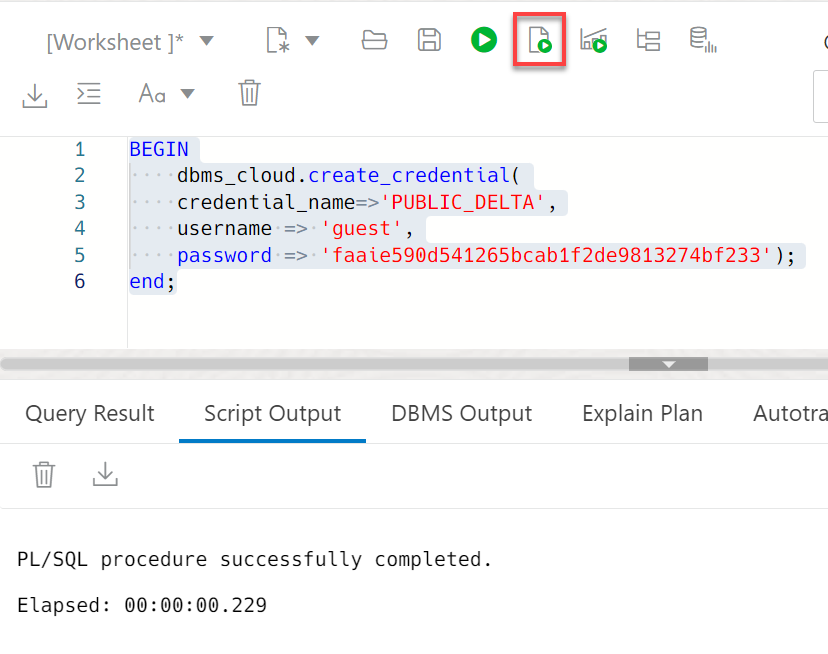
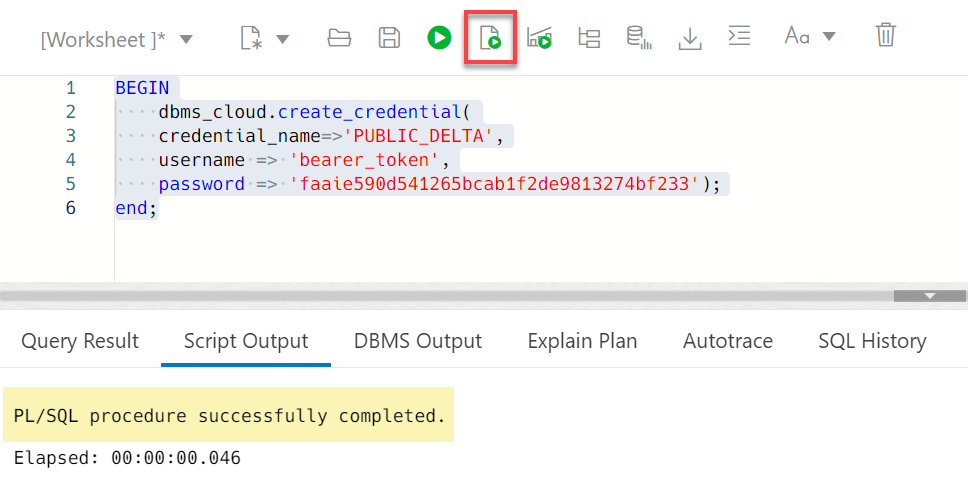
more changes

diff --git a/shared/adw-data-lake/build-data-lake/introduction/introduction.md b/shared/adw-data-lake/build-data-lake/introduction/introduction.md
@@ -2,7 +2,7 @@
 
 ## About this Workshop
 
-The labs in this workshop walk you through all the steps to build a Data Lake using Autonomous Warehouse (ADW), Oracle Object Storage, and optionally Oracle Cloud Infrastructure (OCI) Data Catalog and Amazon Simple Storage Service (S3).
+The labs in this workshop walk you through all the steps to build a Data Lake using Autonomous Data Warehouse (ADW), Oracle Object Storage, and optionally Oracle Cloud Infrastructure (OCI) Data Catalog and Amazon Simple Storage Service (S3).
 
 In the data-driven era, building efficient and scalable data lakes is pivotal for organizations aiming to harness the full potential of their data. Oracle ADW has made significant strides in this field, offering a unified platform rich with capabilities such as graph analysis, machine learning, spatial processing, JSON support, and in-memory data caching.
 
@@ -14,7 +14,7 @@ The focus of this workshop is on the process of building an object store-centric
 
   ![The architecture diagram.](images/architecture-diagram.png)
 
-Estimated Time: 2 hours
+Estimated Time: 2.5 hours
 
 ### What is a Data Lake?
 A data lake enables an enterprise to store all of its data in a cost effective, elastic environment while providing the necessary processing, persistence, and analytic services to discover new business insights. A data lake stores and curates structured and unstructured data and provides methods for organizing large volumes of highly diverse data from multiple sources. In this workshop, a Data Lake refers to the Oracle Object Storage buckets that you will harvest in Data Catalog and query in ADB.
@@ -44,8 +44,6 @@ You can create a table on top of Parquet files, using **Database Actions** in AD
 
  ![The diagram shows the sources for creating tables.](images/table-sources-diagram.png)
 
-
-
 ### Prerequisites
 
 * An Oracle Cloud Account - Please view this workshop's LiveLabs landing page to see which environments are supported. You may use your own cloud account or you can get a Free Trial account as described in the **Get Started** lab in the **Contents** menu.
@@ -60,17 +58,17 @@ You may now proceed to the next lab.
 
 * [Get Started with Data Catalog](https://docs.oracle.com/en-us/iaas/data-catalog/using/index.htm)
 * [Data Catalog Overview](https://docs.oracle.com/en-us/iaas/data-catalog/using/overview.htm)
-* [Using Oracle Autonomous Database on Shared Exadata Infrastructure](https://docs.oracle.com/en/cloud/paas/autonomous-database/adbsa/index.html)
+* [Using Oracle Autonomous Database Serverless](https://docs.oracle.com/en/cloud/paas/autonomous-database/adbsa/index.html)
 * [Oracle Cloud Infrastructure Documentation](https://docs.cloud.oracle.com/en-us/iaas/Content/GSG/Concepts/baremetalintro.htm)
 * [What Is a Data Catalog and Why Do You Need One?](https://www.oracle.com/big-data/what-is-a-data-catalog/)
 * [What is the difference between a Data Lake, Database, and a Data Warehouse](https://www.oracle.com/a/ocom/docs/database/difference-between-data-lake-data-warehouse.pdf) and the [Oracle Cloud Data Lakehouse LiveLabs Workshop](https://apexapps.oracle.com/pls/apex/f?p=133:100:100470405399556::::SEARCH:lakehouse).
 
 ## Acknowledgements
 * **Author:** Lauran Serhal, Consulting User Assistance Developer, Oracle Autonomous Database and Big Data
-* **Contributors:**
+* **Contributor:**
 
     * Alexey Filanovskiy, Senior Product Manager
-    * Marty Gubar, ADB Product Management
+
 * **Last Updated By/Date:** Lauran Serhal, June 2023
 
 Data about movies in this workshop were sourced from Wikipedia.

diff --git a/shared/adw-data-lake/build-data-lake/query-data-lakes/query-data-lakes.md b/shared/adw-data-lake/build-data-lake/query-data-lakes/query-data-lakes.md
@@ -81,7 +81,7 @@ In this task, we define a **Cloud Location** to connect to a public Oracle Objec
 
 ## Task 3: Load Data from the OCI Cloud Location and Create a Table
 
-In this task, we will load data and create the **customer\_contact** and table in your Autonomous Database instance.
+In this task, we will load data and create the **customer\_contact** table in your Autonomous Database instance.
 
 >**Note:** In **Lab 3: Load Data from Local Files**, we already loaded the **customer-extension.csv** file into our ADB instance; therefore, we won't perform this step. In addition, in **Lab 4: Link to Data in Public Object Storage Buckets**, we already linked to the **customer\_contact** file and created the external table; however, in this task, we will load the same **customer\_contact** data into our ADB instance and create a new database table under a new name. Querying data stored inside the database is much faster than querying data that is stored in external tables outside the database.
 
@@ -152,12 +152,13 @@ In this task, we define a **Cloud Location** to connect to our **`moviestream-ch
     + **Cloud Username and Password:** Select this option, if not already selected.
     + **Cloud Store:** Select **Amazon S3** option from the drop-down list.
     + **Credential Name:** Enter **aws_credential**.
-    + The **Bucket URI** option is selected by default.
-
+    
     Provide the values for the next three fields, if you have them:
     + **Amazon access key ID**
     + **Amazon secret access key**
     + **Amazon Bucket URI**. This is your Amazon S3 bucket endpoint.The format is:
+
+    + The **Bucket URI** option is selected by default. The URL format is as follows:
 
         `https://<bucket-name>.s3.<region>.amazonaws.com/`
 
@@ -183,11 +184,11 @@ In this task, we will link to the `potential_churners.csv` data from the AWS S3 
 
 2. In the **Where is your data?** section, select **CLOUD STORE**, and then click **Next**.
 
-3. The **Link Cloud Object** page is displayed. Select the **`aws-s3-data-lake`** from the **Select Cloud Store Location or enter public URL** drop-down list. Next, drag and drop the `potential_churners` table from the Amazon S3 public bucket to the data linking job.
+3. The **Link Cloud Object** page is displayed. Select the **`aws-s3-data-lake`** from the **Select Cloud Store Location or enter public URL** drop-down list, if not already selected. Next, drag and drop the `potential_churners` table from the Amazon S3 public bucket to the data linking job.
 
     ![Drag and drop the potential_churners folder](images/drag-drop-potential-churners.png)
 
-4. Click **Start**. A dialog box is displayed to prompt you whether or not if you want to link all objects in this folder matching **.csv** to a single target table. Click **Yes**.
+4. Click **Start** and then click **Run**.
 
     ![Click Start to start the link job.](images/start-link-job.png)
 

diff --git a/shared/adw-data-lake/build-data-lake/setup-workshop-environment/setup-workshop-environment.md b/shared/adw-data-lake/build-data-lake/setup-workshop-environment/setup-workshop-environment.md
@@ -185,7 +185,7 @@ You may now proceed to the next lab.
 ## Learn More
 
 * [Oracle Cloud Infrastructure Documentation](https://docs.cloud.oracle.com/en-us/iaas/Content/GSG/Concepts/baremetalintro.htm)
-* [Using Oracle Autonomous Database on Shared Exadata Infrastructure](https://docs.oracle.com/en/cloud/paas/autonomous-database/adbsa/index.html)
+* [Using Oracle Autonomous Database Serverless](https://docs.oracle.com/en/cloud/paas/autonomous-database/adbsa/index.html)
 * [Data Catalog Overview](https://docs.oracle.com/en-us/iaas/data-catalog/using/overview.htm)
 * [What Is a Data Catalog and Why Do You Need One?](https://www.oracle.com/big-data/what-is-a-data-catalog/)
 * [Get Started with Data Catalog](https://docs.oracle.com/en-us/iaas/data-catalog/using/index.htm)

diff --git a/shared/adw-data-lake/build-data-lake/load-analyze-rest/load-analyze-rest.md b/shared/adw-data-lake/build-data-lake/load-analyze-rest/load-analyze-rest.md
@@ -354,7 +354,7 @@ You may now proceed to the next lab.
 * [DBMS_CLOUD Subprograms and REST APIs](https://docs.oracle.com/en/cloud/paas/autonomous-database/adbsa/dbms-cloud-subprograms.html#GUID-3D0A5361-672C-467D-AA90-656B1B4D4E37)
 * [Oracle Text](https://docs.oracle.com/en/database/oracle/oracle-database/19/ccref/index.html)
 * [Oracle Cloud Infrastructure Documentation](https://docs.cloud.oracle.com/en-us/iaas/Content/GSG/Concepts/baremetalintro.htm)
-* [Using Oracle Autonomous Database on Shared Exadata Infrastructure](https://docs.oracle.com/en/cloud/paas/autonomous-database/adbsa/index.html)
+* [Using Oracle Autonomous Database Serverless](https://docs.oracle.com/en/cloud/paas/autonomous-database/adbsa/index.html)
 
 ## Acknowledgements
 

diff --git a/shared/adw-data-lake/build-data-lake/use-delta-sharing/use-delta-sharing.md b/shared/adw-data-lake/build-data-lake/use-delta-sharing/use-delta-sharing.md
@@ -73,7 +73,7 @@ Create a new database credential that you will use in this task as follows:
     BEGIN
         dbms_cloud.create_credential(
         credential_name=>'PUBLIC_DELTA',
-        username => 'guest',
+        username => 'bearer_token',
         password => 'faaie590d541265bcab1f2de9813274bf233');
     end;
     </copy>
@@ -172,7 +172,7 @@ You may now proceed to the next lab.
     * Lauran Serhal, Consulting User Assistance Developer, Oracle Database and Big Data
 * **Contributor:**
     + Alexey Filanovskiy, Senior Principal Product Manager
-* **Last Updated By/Date:** Lauran Serhal, May 2023
+* **Last Updated By/Date:** Lauran Serhal, June 2023
 
 Data about movies in this workshop were sourced from Wikipedia.
 

diff --git a/shared/adw-data-lake/build-data-lake/load-local-data/load-local-data.md b/shared/adw-data-lake/build-data-lake/load-local-data/load-local-data.md
@@ -232,7 +232,7 @@ You may now proceed to the next lab.
 ## Learn More
 
 * [Oracle Cloud Infrastructure Documentation](https://docs.cloud.oracle.com/en-us/iaas/Content/GSG/Concepts/baremetalintro.htm)
-* [Using Oracle Autonomous Database on Shared Exadata Infrastructure](https://docs.oracle.com/en/cloud/paas/autonomous-database/adbsa/index.html)
+* [Using Oracle Autonomous Database Serverless](https://docs.oracle.com/en/cloud/paas/autonomous-database/adbsa/index.html)
 
 ## Acknowledgements
 * **Author:** Lauran Serhal, Consulting User Assistance Developer, Oracle Database and Big Data

diff --git a/shared/adw-data-lake/build-data-lake/oracle-data-provider/oracle-data-provider.md b/shared/adw-data-lake/build-data-lake/oracle-data-provider/oracle-data-provider.md
@@ -24,6 +24,8 @@ This lab requires the completion of the following labs/tasks from the **Contents
 
 ## Task 1: Navigate to the SQL Worksheet
 
+If your SQL Worksheet is still displayed from the previous task, skip over to **Task 2**.
+
 1. Log in to the **Oracle Cloud Console**.
 
 2. Open the **Navigation** menu and click **Oracle Database**. Under **Oracle Database**, click **Autonomous Database**.
